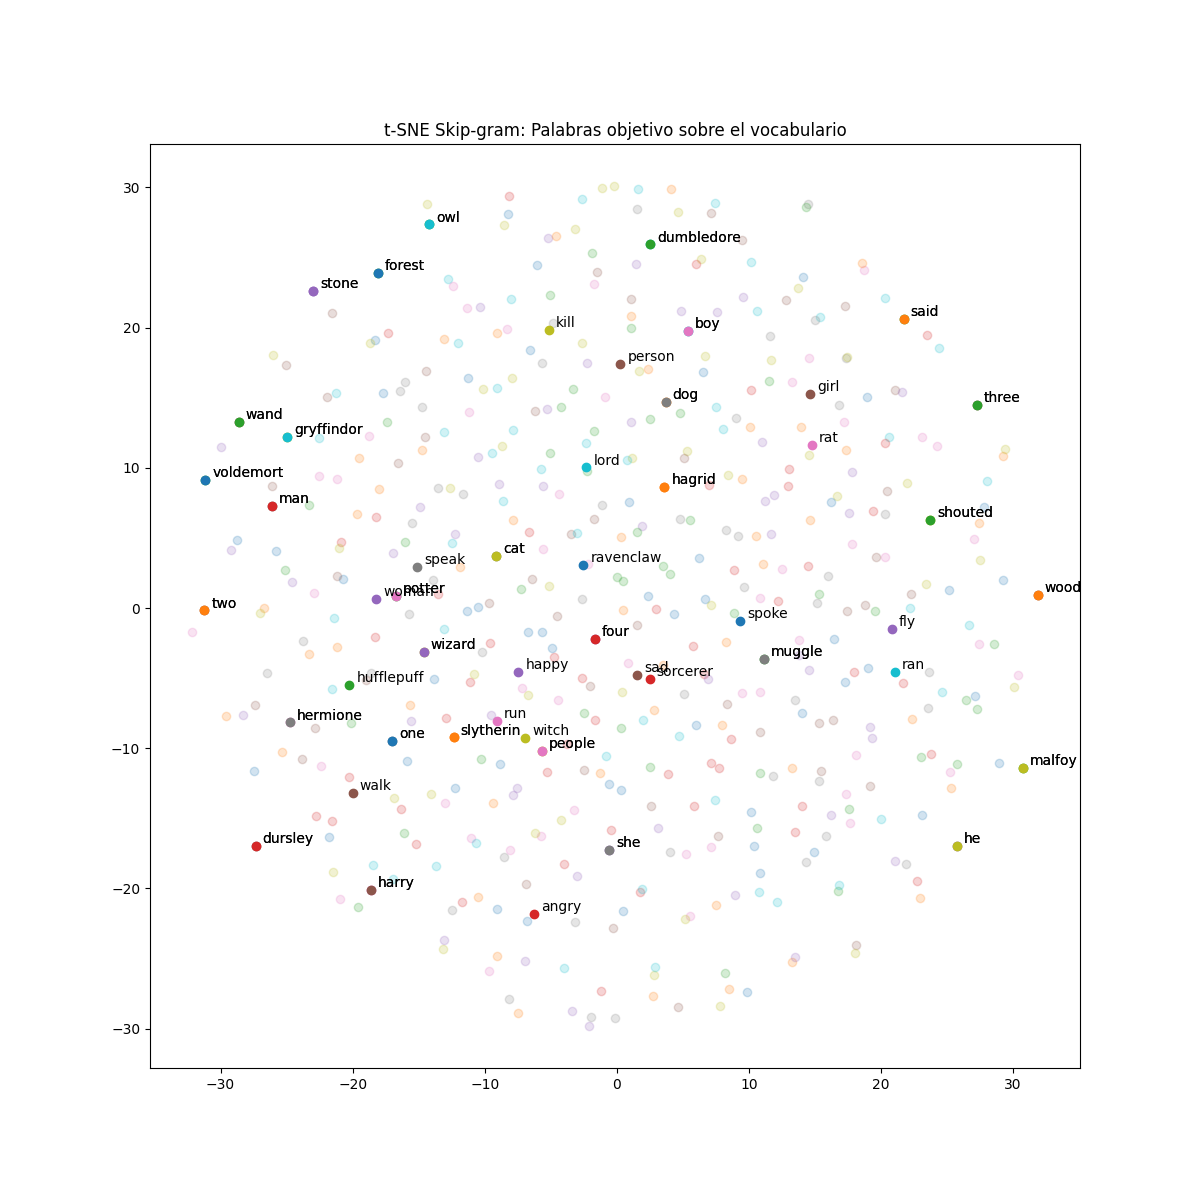
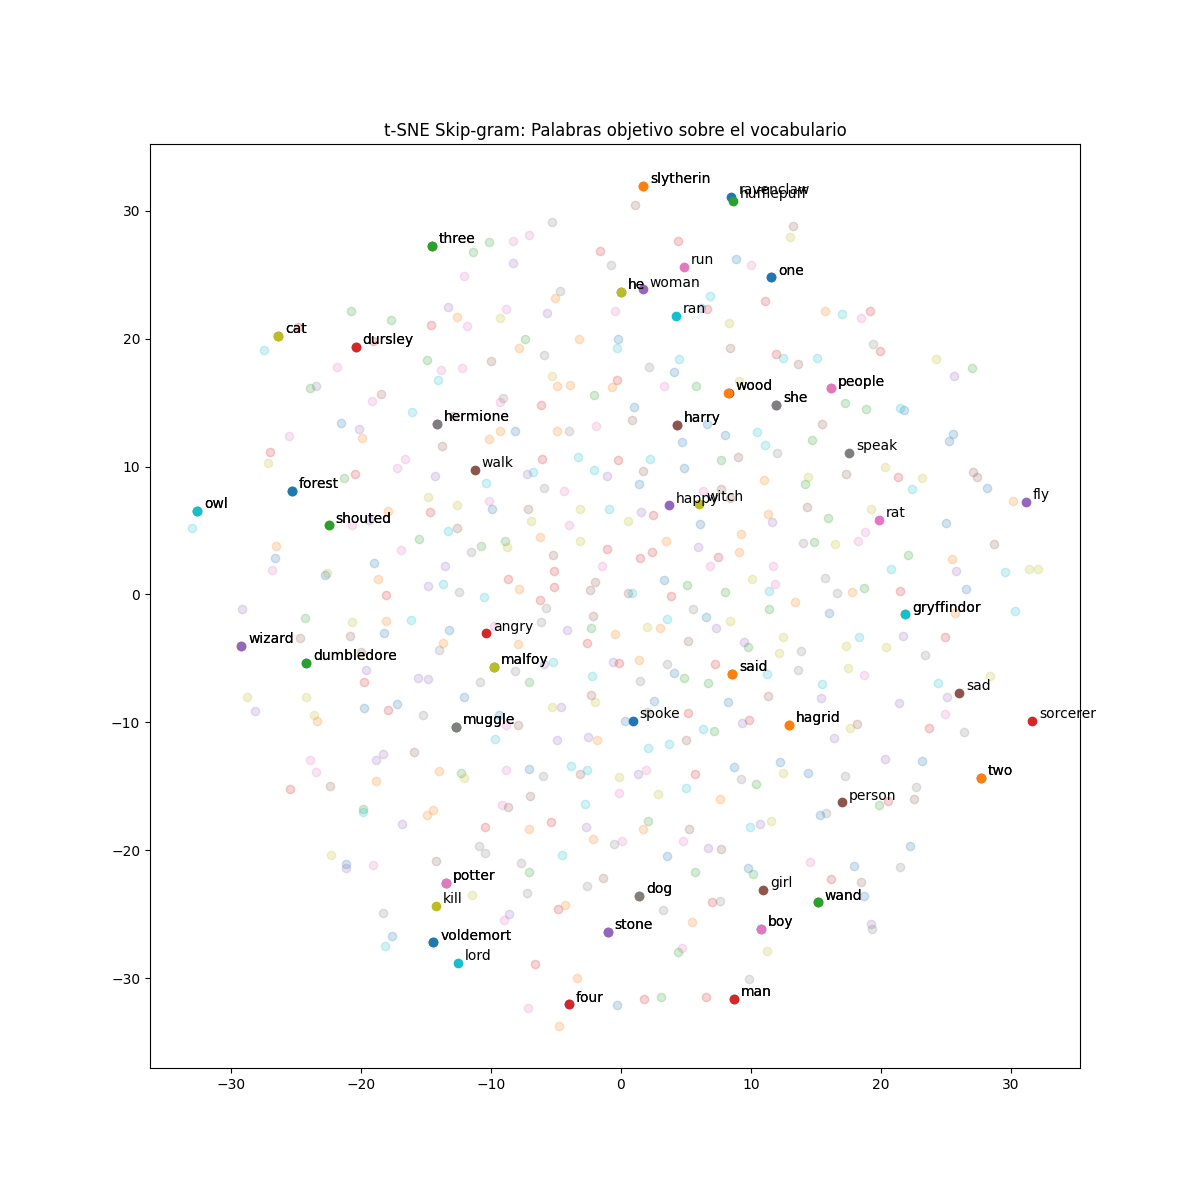
mas epochs de skipgram, si se mete mas sobreajusta, mejora un poco las relaciones semanticas

diff --git a/P2/skipgramm.py b/P2/skipgramm.py
@@ -27,7 +27,7 @@ def cargar_y_tokenizar(ruta_archivo):
     print(f"Tamaño del vocabulario: {vocab_size}")
     return tokenizer, secuencia_ids, vocab_size
 
-def submuestreo(secuencia, t=1e-3):
+def submuestreo(secuencia, t=1e-4):
     total_words = len(secuencia)
     conteo = {}
     for word_id in secuencia:
@@ -149,7 +149,7 @@ if __name__ == "__main__":
     secuencia_filtrada = submuestreo(secuencia_ids)
 
     # Generamos pares (1 positivo y 4 negativos por defecto)
-    pares, etiquetas = skipgrams(secuencia_filtrada, vocabulary_size=vocab_size, window_size=2, negative_samples=4, seed= 42)
+    pares, etiquetas = skipgrams(secuencia_filtrada, vocabulary_size=vocab_size, window_size=5, negative_samples=4, seed= 42)
     word_target, word_context = zip(*pares)
     word_target, word_context, etiquetas = np.array(word_target), np.array(word_context), np.array(etiquetas)
 
@@ -169,7 +169,7 @@ if __name__ == "__main__":
     pesos_clase = {0: 1.0, 1: 4.0} 
     
     history = modelo.fit(x=[word_target, word_context], y=etiquetas, 
-                    batch_size=1024, epochs=5, validation_split=0.1, 
+                    batch_size=1024, epochs=10, validation_split=0.1, 
                     class_weight=pesos_clase)
     
     plot_history(history, model_name="SkipGram")
